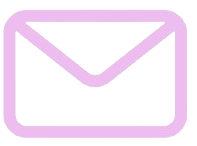
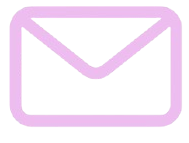
finalizado a sua tia

diff --git a/index.html b/index.html
@@ -55,7 +55,7 @@
 
             </li>
             <li class="nav-item">
-              <a class="nav-link" href="php_html/divulgacao/novidades.php">Novidades</a>
+              <a class="nav-link" href="php_html/divulgacao/novidades.php">Feedback</a>
             </li>
             <li class="nav-item ">
               <a class="nav-link" href="php_html/divulgacao/sobre.php">Quem Somos</a>
@@ -129,7 +129,7 @@
 <footer>
   <div class="container-fluid p-0">
     <div class="row m-0 align-items-center row-footer">
-      <div class="col-2 icone-footer">
+      <div class="col-2    icone-footer">
         <img src="img/disco-burguer-footer.png" alt="Logo Footer">
       </div>
 
@@ -144,7 +144,7 @@
         <img src="img/email-footer.png" alt="E-mail">
         <img src="img/whats-footer.png" alt="WhatsApp">
         </div>
-        <br>
+        
         <h3>#Disco Burguer</h3>
       </div>
 

diff --git a/css/divulgacao/index.css b/css/divulgacao/index.css
@@ -139,8 +139,8 @@ footer{
 }
 .icone-footer img{
 
-    width: 200px;
-    height: 150px;
+    width: 150px;
+    height: 100px;
 }
 
 .local-footer{
@@ -161,20 +161,8 @@ footer{
     font-style: italic;
     margin-top: 5px;
     color: white;
-    font-size:  25px;
+    font-size:  23px;
 }
-
-
-
-
-
-
-
-
-
-
-
-
 
 .contato-img{
 
@@ -188,29 +176,18 @@ footer{
 
 .contato-img img{
 
-    width: 40px;
+    width: 60px;
+    padding-bottom: 5px;
     height: auto;
 }
 
 .contato-footer h3{
 
     font-style: italic;
-    font-size: 10px;
+    font-size: 15px;
     text-align: center;
     color: gold;
 }
-
-
-
-
-
-
-
-
-
-
-
-
 
 
 .menu-footer{
@@ -224,7 +201,7 @@ footer{
 
 .menu-footer a{
 
-    font-size: 24px;
+    font-size: 16px;
     color: white;
     font-style: italic;
     text-decoration: none;

diff --git a/header.php b/header.php
@@ -55,7 +55,7 @@
 
             </li>
             <li class="nav-item">
-              <a class="nav-link" href="novidades.php">Novidades</a>
+              <a class="nav-link" href="novidades.php">Feedback</a>
             </li>
             <li class="nav-item ">
               <a class="nav-link" href="sobre.php">Quem Somos</a>
